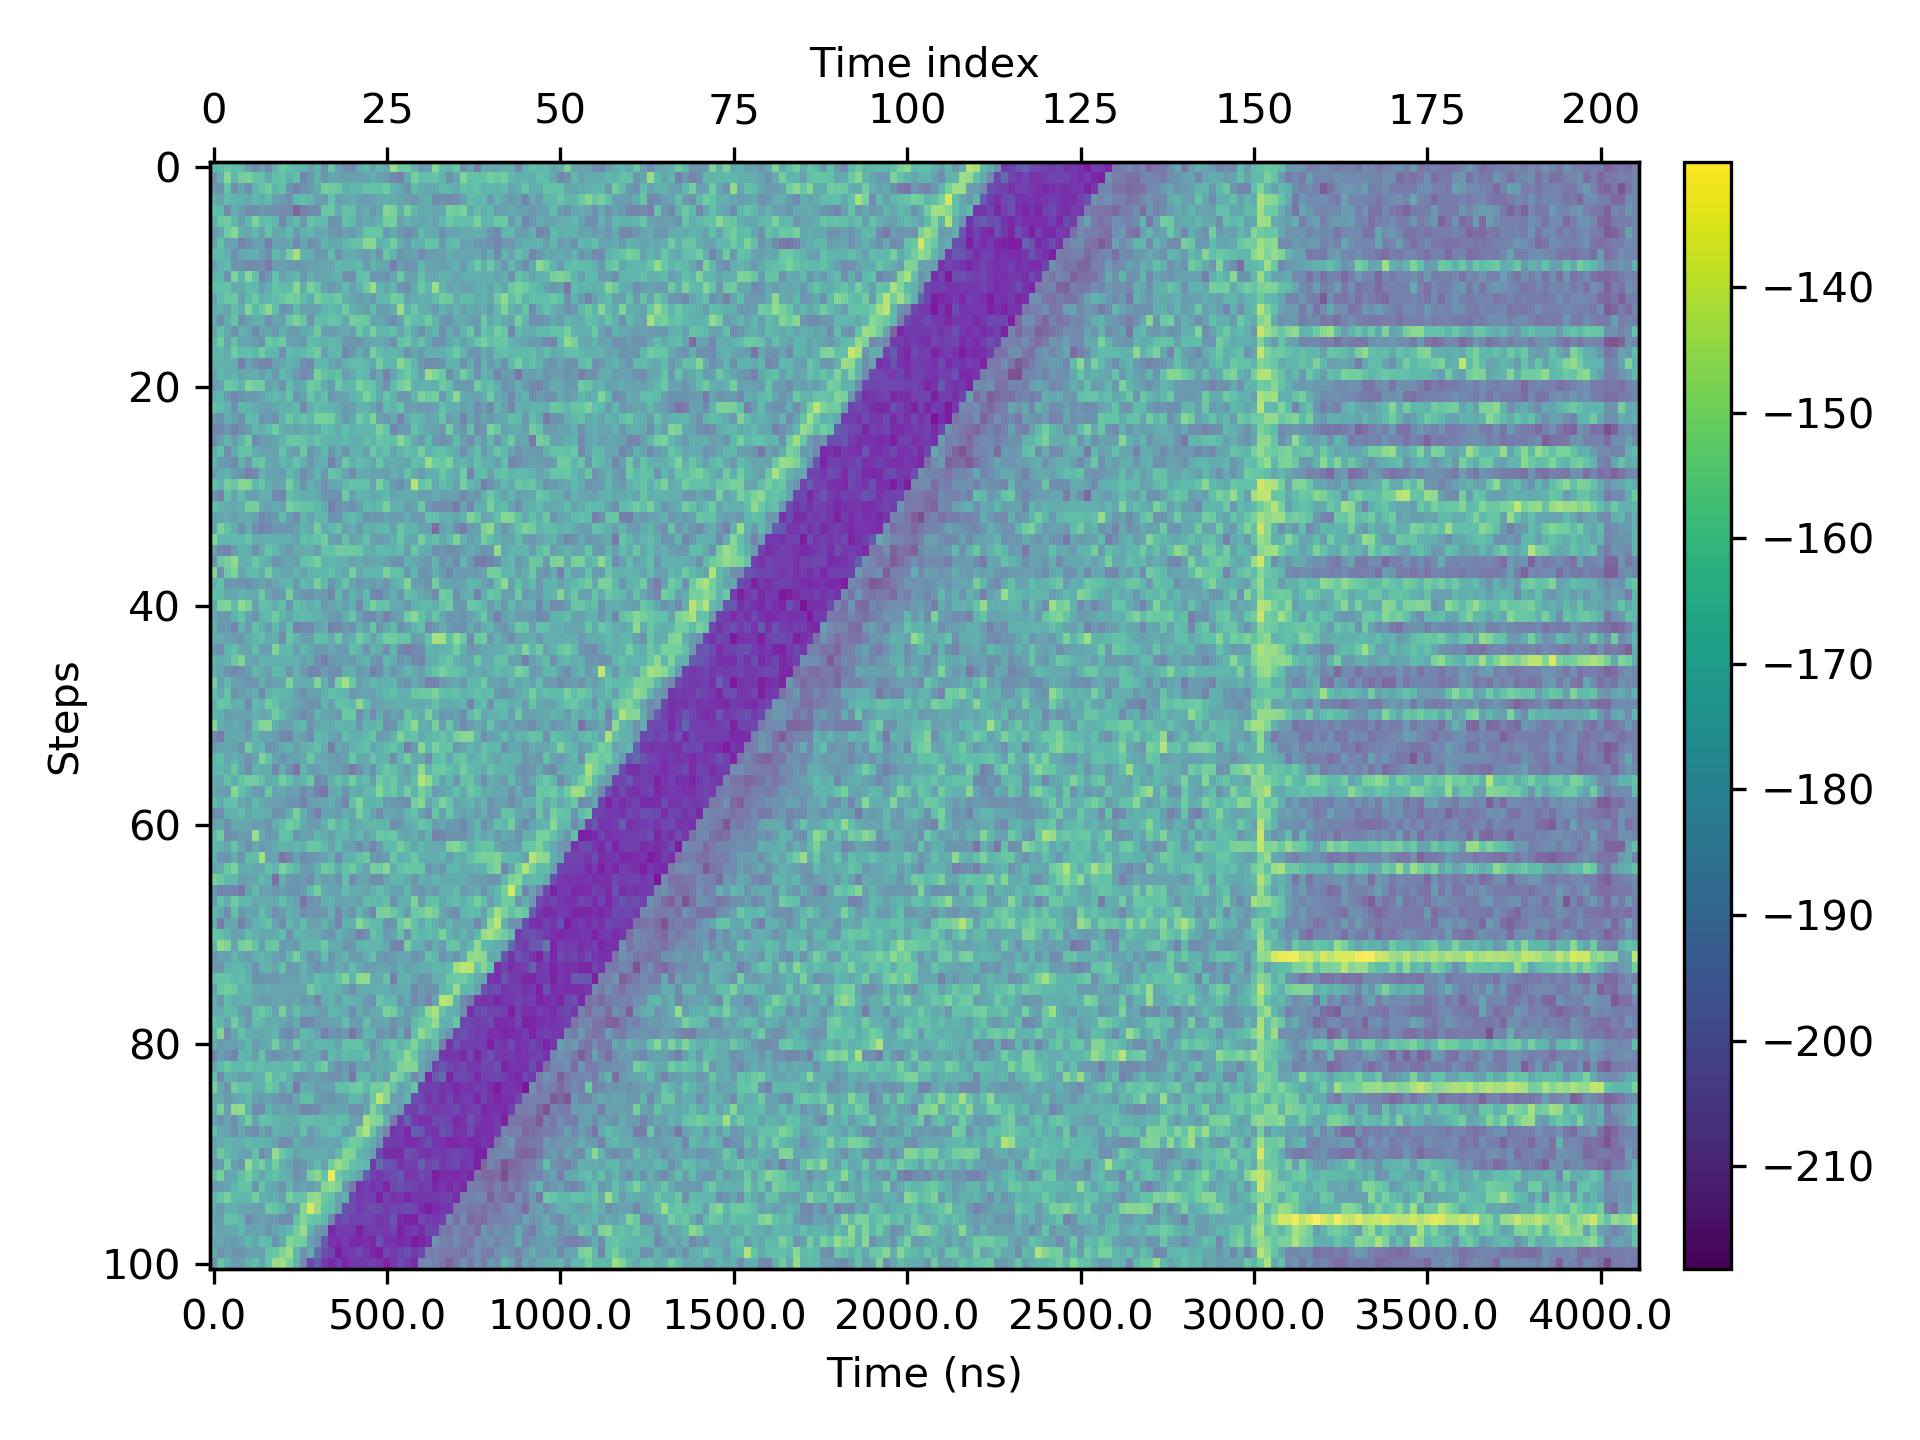
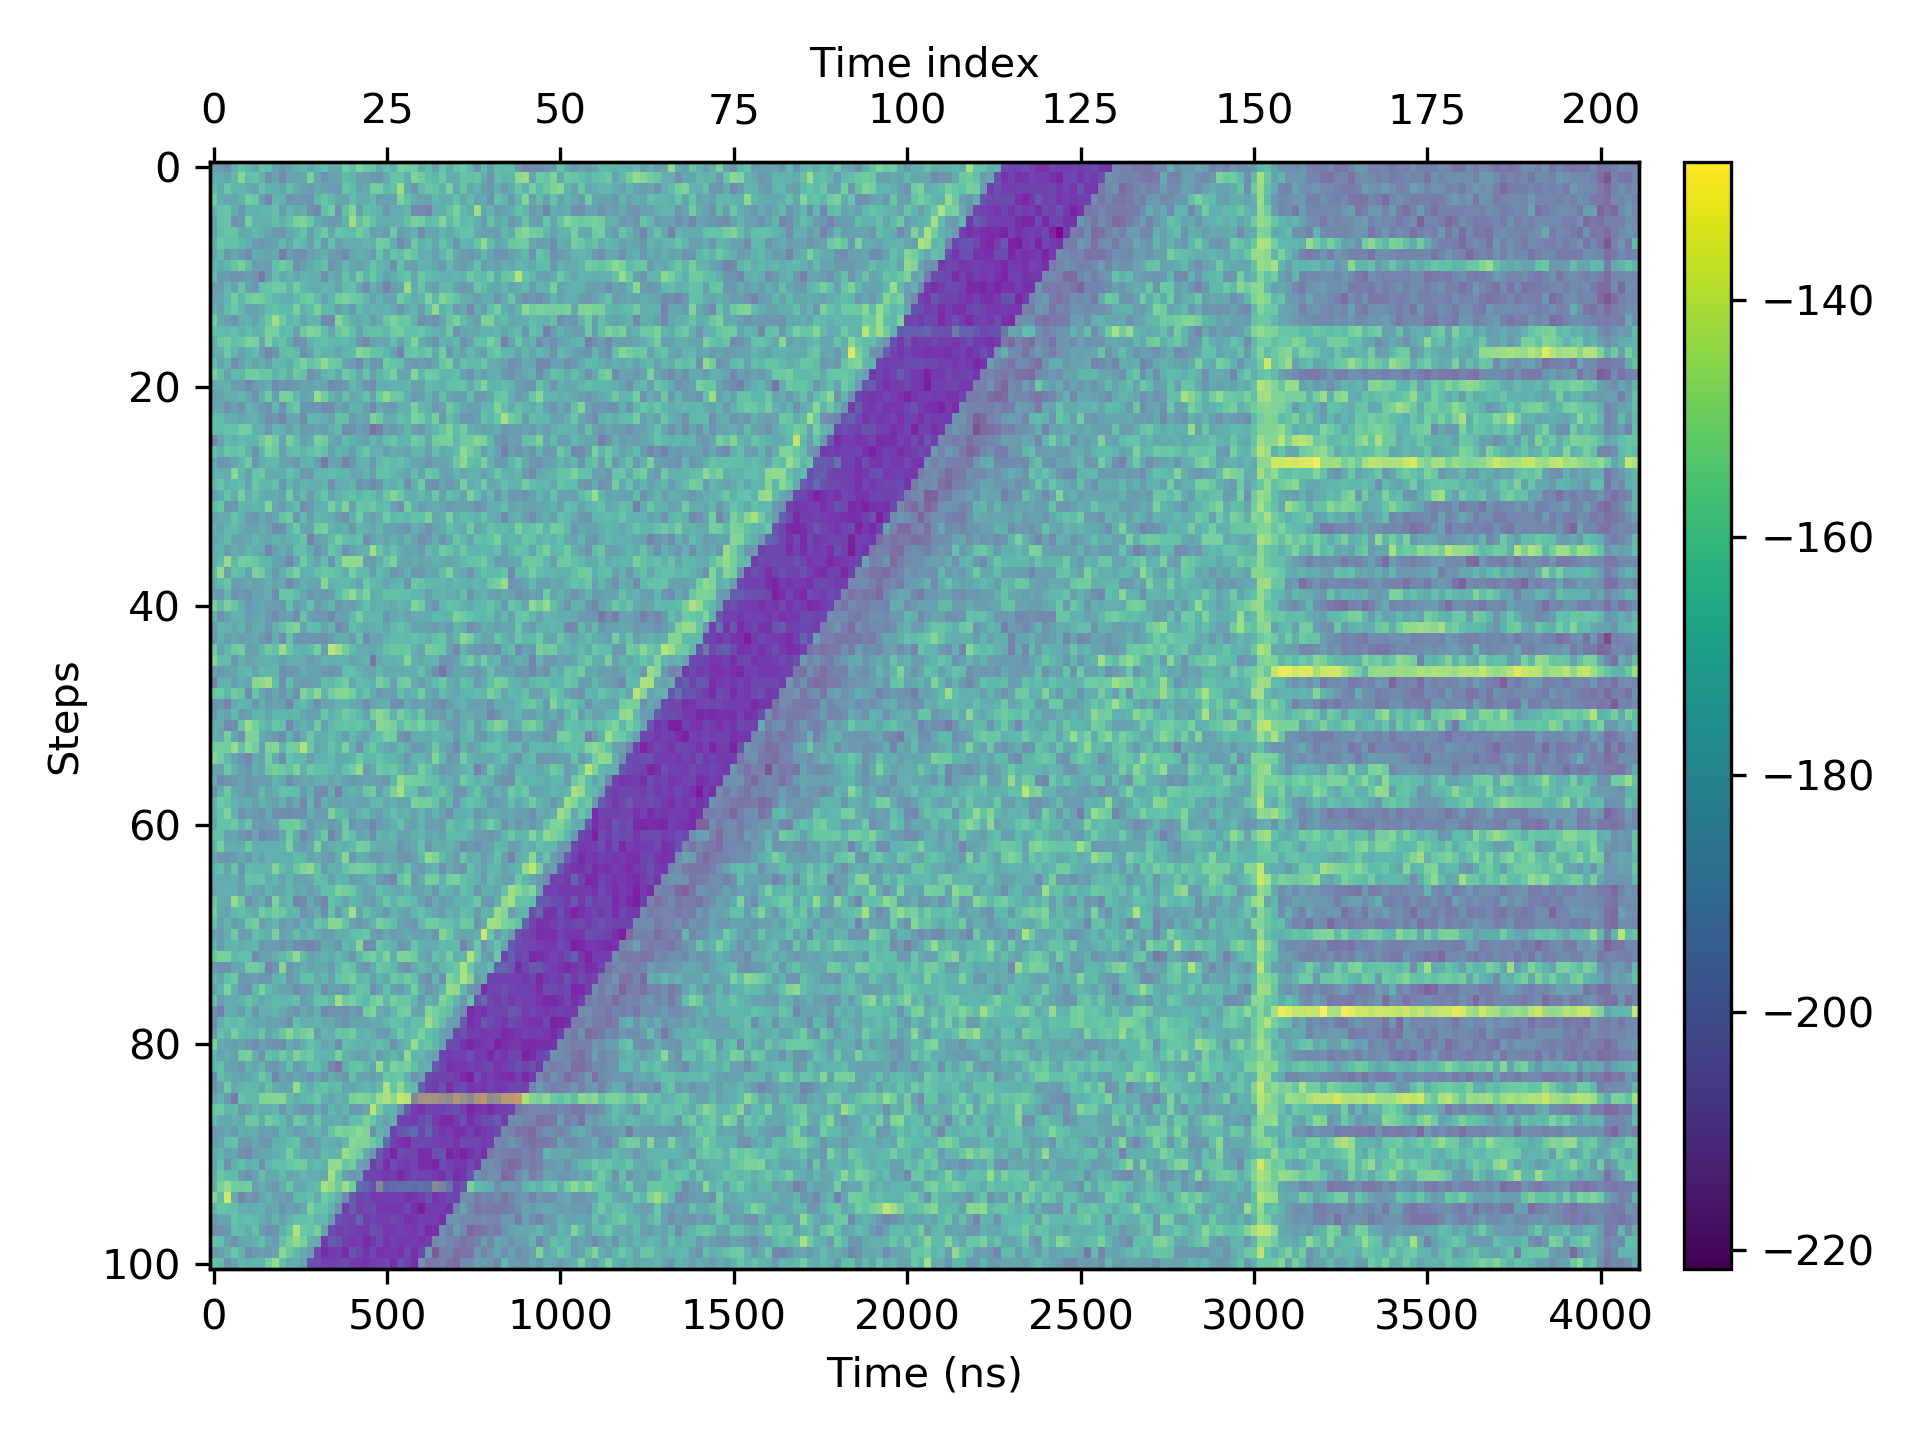
Update plots

diff --git a/measure.py b/measure.py
@@ -1,5 +1,3 @@
-import numpy as np
-import matplotlib.pyplot as plt
 import matplotlib.transforms as transforms
 from sklearn import mixture
 from analyzer import *
@@ -47,6 +45,7 @@ def measurehist(data, t_range, fit=True, n_components=3, log_scale=True, show_pl
     plt.xlabel('Signal $V$')
     plt.ylabel('Probability distribution $f(V)$')
 
+    thresholds = None
     if fit:
         weights, means, covariances = gmm_fit()
         weights = weights.flatten()
@@ -74,115 +73,56 @@ def measurehist(data, t_range, fit=True, n_components=3, log_scale=True, show_pl
         plt.yscale("log")
     if show_plot:
         plt.show()
+    return thresholds
 
 
-def edge_filter(pulse):
-    tau = 60 * 1E-9
-    dt = 20 * 1E-9
-    conv_len = int(2 * tau / dt)
+def crop(data, t_range):
 
-    exp = np.exp(- dt / tau)
-    kernel = np.array([exp ** i for i in range(conv_len)])
-    kernel /= np.sum(kernel)
-    # kernel = np.append([0.2, 0.8], -kernel)
-    # pulse = np.pad(pulse, (conv_len, 1), "edge")
-    kernel = np.append(1, -kernel)
-    pulse = np.pad(pulse, (conv_len, 0), "edge")
-    pulse = np.convolve(pulse, kernel, mode='valid')
-    std = np.std(pulse)
-    mean = np.mean(pulse)
-    pulse[np.abs(pulse - mean) < 1 * std] = 0
-    pulse = np.abs(pulse)
-    return pulse
+    t_range = t_range_parser(data, t_range)
 
+    def step_crop(step_data, step_t_range):
+        return step_data[:, step_t_range[0]:step_t_range[1]]
 
-def separate(pulse, sep_list):
-    out = np.zeros(pulse.shape)
-    last_point = 0
-    sep_list.append(len(pulse))
-    pair_list = []
-    pulse -= np.mean(pulse)
-    pulse /= np.std(pulse)
-    for point in sep_list:
-        pair_list.append([last_point, point, np.mean(pulse[last_point:point])])
-        last_point = point
-    i = len(pair_list) - 2
-    while i >= 0:
-        # print(i)
-        h = np.abs(pair_list[i + 1][2] - pair_list[i][2])
-        if h * (pair_list[i][1] - pair_list[i][0]) < 5:
-            pair_list[i + 1][0] = pair_list[i][0]
-            pair_list[i + 1][2] = np.mean(pulse[pair_list[i][0]:pair_list[i + 1][1]])
-            pair_list.pop(i)
-        i -= 1
-    i = len(pair_list) - 2
-    while i > 0:
-        if (pair_list[i][1] - pair_list[i][0]) < 10 and (pair_list[i][2] - pair_list[i - 1][2]) * (pair_list[i][2] - pair_list[i + 1][2]) > 0:
-            pair_list[i + 1][0] = pair_list[i][0]
-            # pair_list[i + 1][2] = np.mean(pulse[pair_list[i][0]:pair_list[i + 1][1]])
-            pair_list.pop(i)
-        i -= 1
-    for a, b, value in pair_list:
-        out[a:b] = value
-    return out, pair_list
+    def seq_crop(seq_data, t_range):
+        return broadcast(step_crop, seq_data, t_range)
+
+    data_type = datatype(data)['type']
+
+    crop_funcs = {
+        'seq': seq_crop,
+        'step': step_crop,
+    }
+
+    return crop_funcs[data_type](data, t_range)
 
 
-def projective(pulse, sensitivity=1.0, verbose=True, num=2):
-    tau = 60 * 1E-9
-    dt = 20 * 1E-9
-    filtered = edge_filter(pulse)
-    # plt.plot(pulse)
-    # plt.show()
-    pair_list = []
-    last_idx = -1
-    for idx in np.nonzero(filtered)[0]:
-        if idx > last_idx + 1:
-            pair_list.append(idx)
-        last_idx = idx
-    return pair_list
+def select(data, state, t_range, thresholds, num_only=False):
 
+    t_range = t_range_parser(data, t_range)
 
-def projective2(seq, nmin=[], nmax=[]):
-    avg = sq.avg_time(seq, nmin=nmin, nmax=nmax)
-    avg_stack = np.hstack(avg)
-    gmm = mixture.GaussianMixture(n_components=2)
-    result = []
-    gmm.fit(avg_stack.reshape(-1, 1))
-    for pulse in avg:
-        result.append(gmm.predict(pulse.reshape(-1, 1)))
-    return result, gmm
+    avg = avg_time(data, t_range)
 
+    if not hasattr(thresholds, '__getitem__'):
+        thresholds = [thresholds]
 
-def projective3(seq, threshold, nmin=[], nmax=[]):
-    avg = sq.avg_time(seq, nmin=nmin, nmax=nmax)
-    result = []
-    for avg_pulse in avg:
-        result_pulse = np.full(avg_pulse.shape, -1)
-        state_index = 0
-        for lower, upper in threshold:
-            result_pulse[np.logical_and(avg_pulse >= lower, avg_pulse < upper)] = state_index
-            state_index += 1
-        result.append(result_pulse)
-    return result
+    thresholds = np.insert(thresholds, 0, -np.inf)
+    thresholds = np.append(thresholds, np.inf)
 
+    def step_select(step_data, step_avg):
+        selected = step_data[np.logical_and(step_avg > thresholds[state], step_avg < thresholds[state + 1]), :]
+        if num_only:
+            return len(selected)
+        return selected
 
-def selection(seq, measure_cond, return_num=False):
-    result = []
-    seq_cond = []
-    if isinstance(measure_cond, tuple):
-        measure_cond = [measure_cond]
-    for pulse in seq:
-        seq_cond.append(np.full(pulse.shape[0], True))
-    for i in range(len(seq_cond)):
-        for m_cond in measure_cond:
-            seq_cond[i] = np.logical_and(seq_cond[i], m_cond[0][i] == m_cond[1])
-    if return_num:
-        for i in range(len(seq)):
-            result.append(np.sum(seq_cond[i]))
-        result = np.array(result)
-    else:
-        i = 0
-        for pulse in seq:
-            result.append(pulse[seq_cond[i]])
-            i += 1
-    return result
+    def seq_select(seq_data, avg):
+        selected = broadcast(step_select, seq_data, avg)
+        return selected
+
+    data_type = datatype(data)['type']
+
+    select_funcs = {
+        'seq': seq_select,
+        'step': step_select,
+    }
+
+    return select_funcs[data_type](data, avg)

diff --git a/core.py b/core.py
@@ -1,8 +1,6 @@
 import numpy as np
 import matplotlib as mpl
 import matplotlib.pyplot as plt
-from mpl_toolkits.axes_grid1 import make_axes_locatable
-import matplotlib.gridspec as gridspec
 from os import listdir as os_loaddir
 from os.path import isfile, join, exists, split
 from os import mkdir, stat
@@ -250,7 +248,7 @@ def show(data, t_range=None, mode='sample', delta_t=20E-9, show_plot=True):
             return plot_data
 
         def plot_data_sample():
-            plot_data = np.vstack([step_data[1] for step_data in seq_data])
+            plot_data = np.vstack([step_data[0] for step_data in seq_data])
             return plot_data
 
         def plot_data_average():
@@ -276,7 +274,9 @@ def show(data, t_range=None, mode='sample', delta_t=20E-9, show_plot=True):
         ax1.set_ylabel('Steps')
         ax2.set_xlabel('Time index')
         ax1.axis('auto')
-        ax1.set_xticklabels(ax1.get_xticks() * delta_t * 1E9)
+        xtick_values = ax1.get_xticks() * delta_t * 1E9
+        xtick_strings = ['{:.0f}'.format(xtick_value) for xtick_value in xtick_values]
+        ax1.set_xticklabels(xtick_strings)
         ax2.set_xlim(ax1.get_xlim())
         plt.tight_layout(w_pad=-100)
 

diff --git a/examples/display_sequence.py b/examples/display_sequence.py
@@ -6,8 +6,9 @@ num_steps = 101
 seq_rec = az.load(path, num_steps=num_steps, num_files=5)
 
 delta_t = 20E-9
-t_range_herald = [[109 - i + 5, 134 - i] for i in range(num_steps)]
-t_range_final = [150 + 5, 200]
+t_range_herald = [[114 - i, 130 - i] for i in range(num_steps)]
+
+t_range_final = [154, 164]
 
 az.show(seq_rec, mode='sample', delta_t=delta_t)
 # Showing the t_range_herald

diff --git a/examples/measurement_calibration.py b/examples/measurement_calibration.py
@@ -13,5 +13,5 @@ t_range_herald = [[114 - i, 130 - i] for i in range(num_steps)]
 t_range_final = [154, 164]
 
 az.show(seq_rec, t_range_herald, mode='sample', delta_t=delta_t)
-ms.measurehist(seq_rec, t_range_herald, calc_temp=True, qubit_freq=4.48E9)
+thresholds = ms.measurehist(seq_rec, t_range_herald, calc_temp=True, qubit_freq=4.48E9)
 # ms.measurehist(seq_rec, t_range_final)
